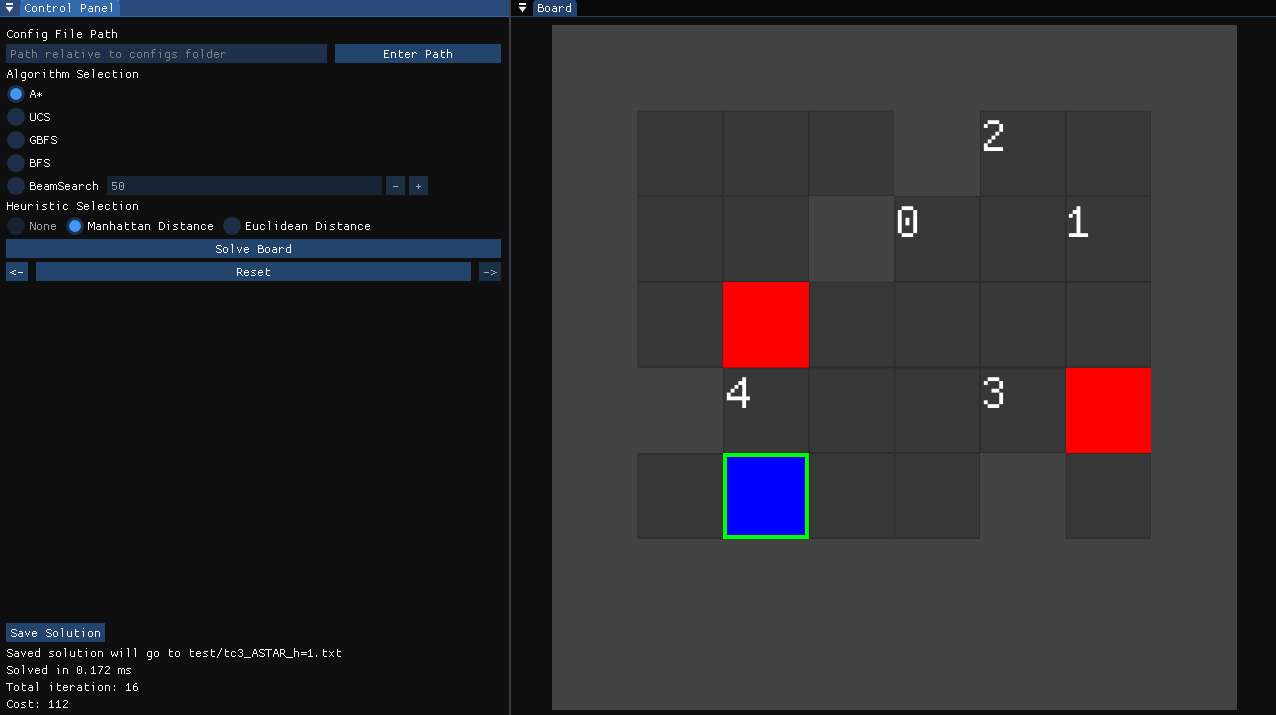
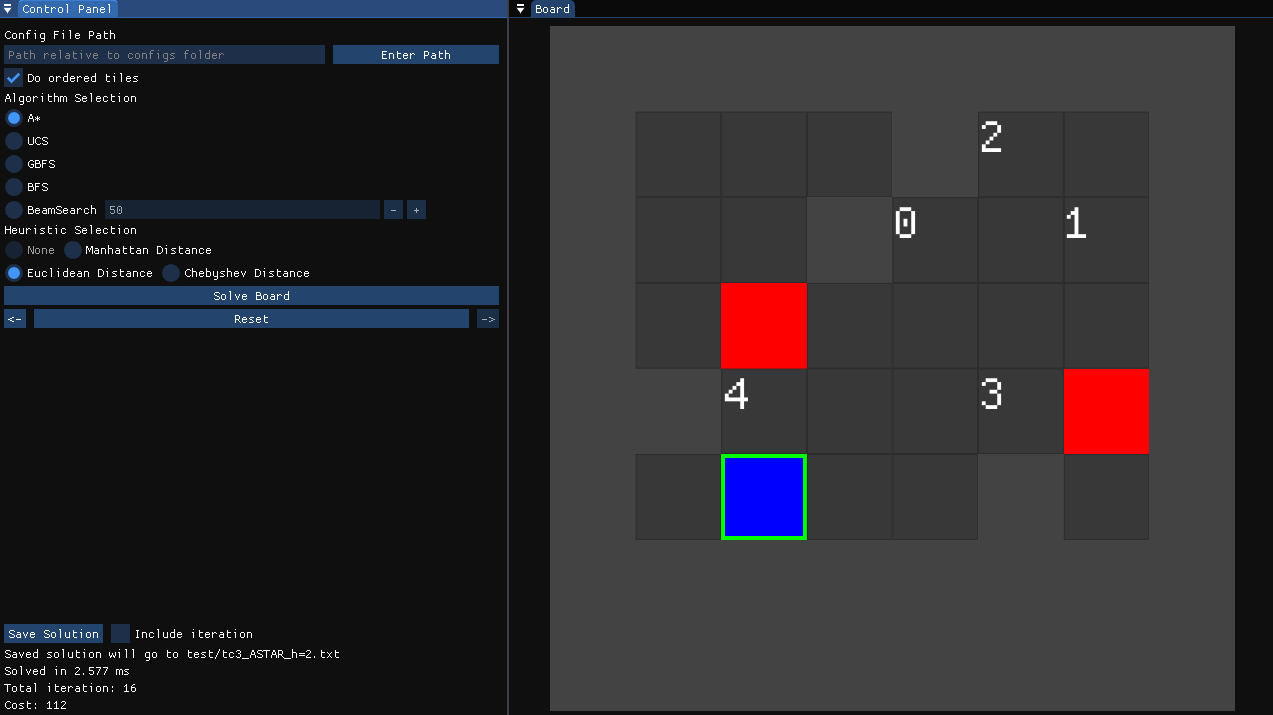
feat: add How to Use section in README

diff --git a/README.md b/README.md
@@ -26,10 +26,34 @@ If you are running through WSL, and assuming you have docker installed, you can 
 ```bash
 ./run.sh
 ```
+
+Alternatively, if the script fails, run this on terminal (project folder):
+```bash
+xhost +local:docker
+docker build -t iceslide .
+docker run -it --rm \
+    -e DISPLAY=$DISPLAY \
+    -e WAYLAND_DISPLAY=$WAYLAND_DISPLAY \
+    -e XDG_RUNTIME_DIR=/mnt/wslg/runtime-dir \
+    -v /tmp/.X11-unix:/tmp/.X11-unix \
+    -v /mnt/wslg:/mnt/wslg \
+    -v "$(pwd)/configs:/app/configs" \
+    -v "$(pwd)/test:/app/test" \
+    iceslide
+```
+
 Note that this script is specifically for WSL and NOT native linux. This is because there is a difference on how to run a docker and forwards the display to you host machine on WSL and on native linux.
 
 Also this is a heavy script because docker will need to install g++ and cmake to its container. So expect longer launch time for the price of convenience.
 
+# How to Use
+After running the executable, insert the name of a configuration file to solve inside the top left text box. Configuration files can be seen on configs folder. Click "Enter Path" button besides the text box to load the configuration file.
+
+After that, check/uncheck the "Do ordered tiles" checkbox if the solution should go through all ordered tiles (tiles with numbers in it) or not. Select algorithm to use and its heuristic (and the value of BeamSearch if selected). Then, press "Solve Board" button to solve the configuration with selected algorithm.
+
+The solution will be stored in the program and can be traversed using "<-" and "->" button. Press "Reset" button to get back to the initial board.
+
+The solution can be saved into a txt file to the test folder using "Save Solution" button. Check/uncheck "Include iteration" checkbox to include/exclude iteration process in the output file.
 
 # Authors:
 - Faiq Azzam Nafidz (13524003)
